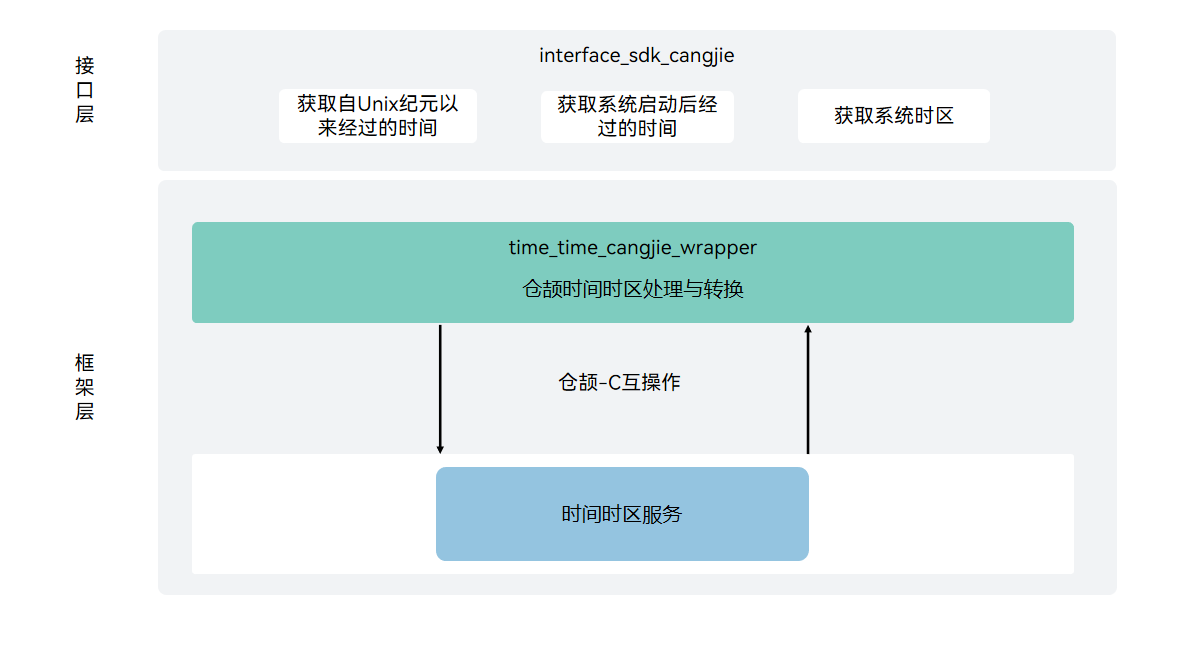
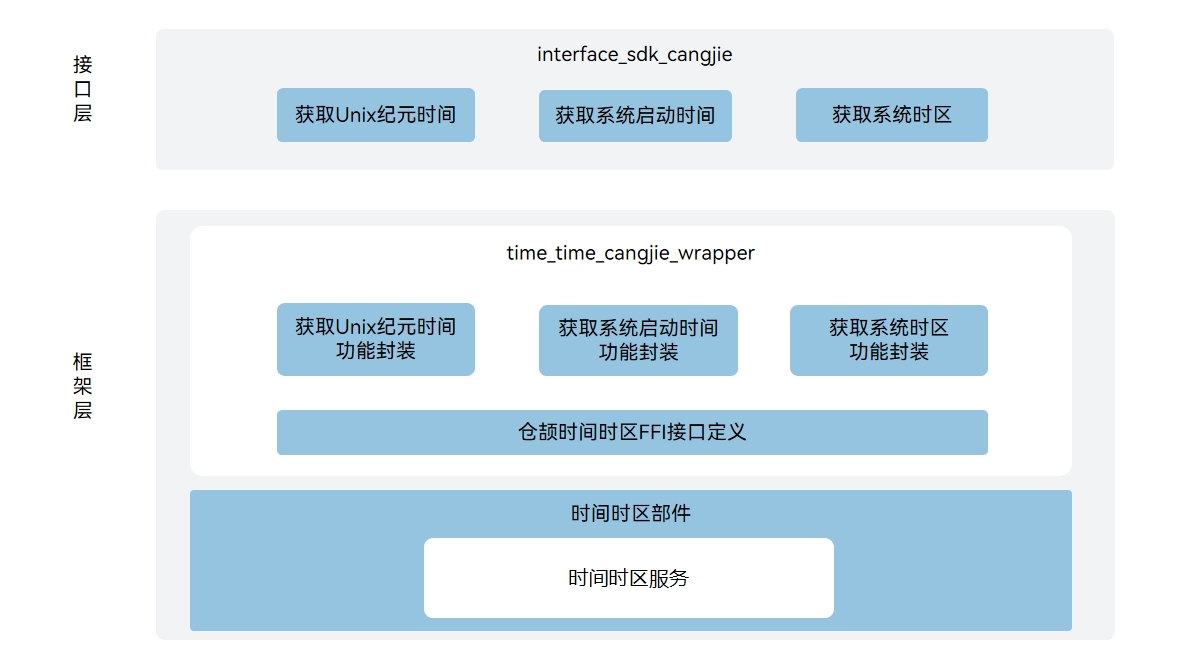
fix readme

diff --git a/README.md b/README.md
@@ -2,7 +2,7 @@
 
 ## Introduction
 
- The time_cangjie_wrapper is a Cangjie API encapsulated on OpenHarmony based on the capabilities of the time and time zone subsystem,the currently Cangjie open interface for manageing time only supports standard devices. The time and time zone subsystem provides OpenHarmony with the capability of managing the system time, time zone, and timing.
+ The time_cangjie_wrapper is a Cangjie API encapsulated on OpenHarmony based on the capabilities of the time and time zone subsystem. The time and time zone subsystem provides OpenHarmony with the capability of managing the system time, time zone, and timing.
 
 - **Time and time zone management**
   Manages the system time and time zone in a unified manner, including setting and obtaining the system time, date, and time zone, and obtaining the system startup time.
@@ -10,18 +10,29 @@
 - **Timing management**
   Provides the system timer capability, including creating, starting, stopping, and destroying timers. There are three types of timers: system startup timer, system time timer, and wakeup timer.
 
+The current time and time zone Cangjie interface supports standard devices and only provides the ability to obtain the time and time zone.
+
 ## System Architecture
 
 **Figure 1** Architecture of the time_cangjie_wrapper
 
-![](figures/time_cangjie_wrapper_architecture_en.png "Architecture of the time_cangjie_wrapper")
+!["Architecture of the time_cangjie_wrapper"](figures/time_cangjie_wrapper_architecture_en.png )
+
+As depicted in the architecture diagram:
+
+- get  time since the Unix epoch: Provides an interface to obtain the elapsed time since the Unix epoch.  
+- get time since system startup: Provides an interface to obtain the elapsed time since system startup.  
+- get system time zone: Provides an interface to obtain the current system timezone.  
+- Cangjie timing and time FFI interface definition: Responsible for defining C-interoperable Cangjie interfaces to implement Cangjie timezone capabilities. 
+- timing and time service: Responsible for providing basic timezone functionality, encapsulating C interfaces for Cangjie interoperability.
 
 ## Directory Structure
 
 ```
-base/time/time_cangjie_wrapper
-├── ohos             # Cangjie Time and Time Zone Subsystem code
-├── figures          # architecture pictures
+base/request/request_cangjie_wrapper
+├── ohos             
+      └── system_date_time    # Cangjie Time and Time Zone Subsystem code
+└── figures                   # architecture pictures
 ```
 
 ## Instructions For Use
@@ -49,3 +60,7 @@ Developers are welcome to contribute code, documentation, etc. For specific cont
 [arkcompiler_cangjie_ark_interop](https://gitcode.com/openharmony-sig/arkcompiler_cangjie_ark_interop/tree/master/README.md)  
 [arkui_arkui_cangjie_wrapper](https://gitcode.com/openharmony-sig/arkui_arkui_cangjie_wrapper/tree/master/README.md)  
 [hiviewdfx_hiviewdfx_cangjie_wrapper](https://gitcode.com/openharmony-sig/hiviewdfx_hiviewdfx_cangjie_wrapper/tree/master/README.md)
+
+
+
+

diff --git a/README_zh.md b/README_zh.md
@@ -2,7 +2,7 @@
 
 ## 简介
 
-时间时区仓颉接口是在 OpenHarmony 上基于测试子系统能力之上封装的仓颉API，当前开放的时间时区仓颉接口仅支持standard设备。时间时区仓颉接口为OpenHarmony系统提供了管理系统时间时区和定时的能力，包括：
+时间时区仓颉接口是在 OpenHarmony 上基于时间时区子系统能力之上封装的仓颉API。时间时区子系统为OpenHarmony系统提供了管理系统时间时区和定时的能力，包括：
 
 - **管理时间时区**
   统一管理系统时间时区，包括设置/获取系统时间、日期、时区，同时提供获取系统启动时间。
@@ -10,18 +10,29 @@
 - **定时能力**
   提供系统定时器能力。包括定时器创建、启动、停止和销毁。定时器类型提供三种：系统启动时间计时类定时器、系统当前时间计时类定时器、唤醒类定时器。
 
+当前时间时区仓颉接口支持standard设备，只提供获取时间时区的能力。
+
 ## 系统架构
 
 **图 1**  时间时区仓颉接口架构图
 
-![](figures/time_cangjie_wrapper_architecture.png "时间时区仓颉架构图")
+![时间时区仓颉架构](figures/time_cangjie_wrapper_architecture.png)
+
+如架构图所示：
+
+- 获取Unix纪元时间：提供获取自Unix纪元以来经过时间的接口。
+- 获取系统启动时间：提供获取自系统启动以来经过时间的接口。
+- 获取系统时区：提供获取当前系统时区的接口。
+- 仓颉时间时区FFI接口定义：负责定义C互操作仓颉接口，用于实现仓颉时间时区能力。
+- 时间时区服务：负责提供时间时区基础功能，封装C接口提供给仓颉进行互操作。
 
 ## 目录
 
 ```
-base/time/time_cangjie_wrapper
-├── ohos             # 仓颉时间时区接口实现
-├── figures          # 存放readme中的架构图
+base/request/request_cangjie_wrapper
+├── ohos             
+      └── system_date_time    # 仓颉时间时区接口实现
+└── figures                   # 存放README中的架构图
 ```
 
 ## 使用说明
@@ -32,7 +43,7 @@ base/time/time_cangjie_wrapper
   - 获取自系统启动以来经过的时间
   - 获取系统时区
 
-- 与ArkTS相比，暂不支持以下功能：
+- 与ArkTS API相比，暂不支持以下功能：
   
   - 设置系统时区
   - 创建/开启/停止/销毁 定时器
@@ -49,7 +60,3 @@ base/time/time_cangjie_wrapper
 [arkcompiler_cangjie_ark_interop](https://gitcode.com/openharmony-sig/arkcompiler_cangjie_ark_interop/tree/master)  
 [arkui_arkui_cangjie_wrapper](https://gitcode.com/openharmony-sig/arkui_arkui_cangjie_wrapper/tree/master)  
 [hiviewdfx_hiviewdfx_cangjie_wrapper](https://gitcode.com/openharmony-sig/hiviewdfx_hiviewdfx_cangjie_wrapper/tree/master)  
-
-
-
-
